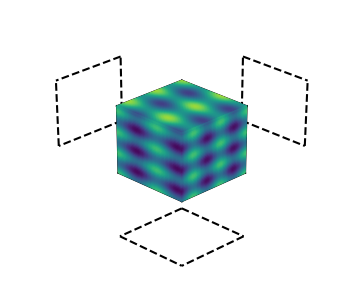
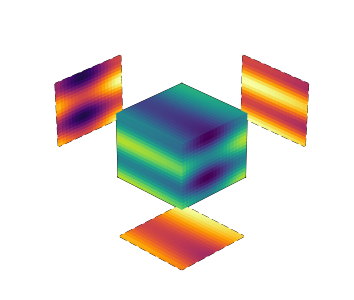
surface rendering for exploded panels

Changed region(s): [[0.1554, 0.18, 0.8701, 0.9]]

diff --git a/box.py b/box.py
@@ -114,6 +114,7 @@ class Box:
 
 
     def _check_for_point(self, arr):
+        self.make_corners()
         farr = []
         for pp in self.corners:
             #print("drawing", pp, pp[2])
@@ -131,7 +132,7 @@ class Box:
 
 
     # draw also backside and bottom panels using exploded view
-    def draw_hidden_panels(self, 
+    def draw_exploded_panels_outline(self, 
             side, 
             off = dx,
             fmt={'color':'k','linestyle':'dashed',},
@@ -206,9 +207,57 @@ class Box:
         self.draw_surface(X,Y,Z,data_slice)
 
 
+    def draw_exploded_bottom(self, off=dx):
+        farr = self._check_for_point([None, None, self.z0])
+        cors = self.filter_points( farr )
+        data_slice = self.data[:,:,0] 
 
-    def draw_surface(self, X, Y, Z, data):
-        cmap = plt.cm.viridis
+        ny, nx = np.shape(data_slice)
+        X, Y = np.meshgrid( 
+                np.linspace(self.x0, self.x0 + self.dx, nx), 
+                np.linspace(self.y0, self.y0 + self.dy, ny))
+        z1 = self.z0 - off
+        Z = z1*np.ones(X.shape)
+
+        self.draw_surface(X,Y,Z,data_slice, cmap=plt.cm.inferno)
+
+
+    def draw_exploded_left(self, off=dx):
+        farr = self._check_for_point([None, self.y0, None])
+        cors = self.filter_points( farr )
+        data_slice = self.data[:,0,:]
+
+        ny, nx = np.shape(data_slice)
+        X, Z = np.meshgrid( 
+                np.linspace(self.x0, self.x0 + self.dx, nx), 
+                np.linspace(self.z0, self.z0 + self.dz, ny))
+        y1 = self.y0 - off
+        Y = y1*np.ones(X.shape)
+
+        self.draw_surface(X,Y,Z,data_slice, cmap=plt.cm.inferno)
+
+
+    def draw_exploded_right(self, off=dx):
+        farr = self._check_for_point([self.x0, None, None])
+        cors = self.filter_points( farr )
+        data_slice = self.data[0,:,:] 
+
+        ny, nx = np.shape(data_slice)
+        Y, Z = np.meshgrid( 
+                np.linspace(self.y0, self.y0 + self.dy, nx), 
+                np.linspace(self.z0, self.z0 + self.dz, ny))
+        x1 = self.x0 - off
+        X = x1*np.ones(Z.shape)
+
+        self.draw_surface(X,Y,Z,data_slice, cmap=plt.cm.inferno)
+
+
+
+    def draw_surface(self, 
+            X, Y, Z, 
+            data, 
+            cmap = plt.cm.viridis,
+            ):
 
         norm = mpl.colors.Normalize(vmin=self.vmin, vmax=self.vmax)
         self.ax.plot_surface(
@@ -239,9 +288,9 @@ def f(x, y, z):
     #u = np.cos(x)*np.sin(y)
     #v = np.sin(x)*np.cos(y)
     #w = np.cos(x)*np.cos(y)
-    kx = 10.0
-    ky = 15.0
-    kz = 20.0
+    kx = 1.0
+    ky = 5.0
+    kz = 10.0
     return np.cos(kx*x + 0.1) + np.cos(ky*y + 0.2) + np.cos(kz*z + 0.3)
 
 #def f(x, y, z):
@@ -275,7 +324,7 @@ if __name__ == "__main__":
     axs.append( fig.add_subplot(111, projection='3d') )
     
     #create data
-    Nx = 50
+    Nx = 20
     x = np.linspace(0.0, 1.0, Nx)
     y = np.linspace(0.0, 1.0, Nx)
     z = np.linspace(0.0, 1.0, Nx)
@@ -285,19 +334,23 @@ if __name__ == "__main__":
     box = Box(axs[0])
     box.set_data(data)
 
-    box.draw_outline()
     box.draw_top()
     box.draw_left()
     box.draw_right()
+    box.draw_outline()
 
 
-    box.draw_hidden_panels("bottom")
-    box.draw_hidden_panels("left")
-    box.draw_hidden_panels("right")
+    box.draw_exploded_panels_outline("bottom")
+    box.draw_exploded_panels_outline("left")
+    box.draw_exploded_panels_outline("right")
     
+    box.draw_exploded_bottom()
+    box.draw_exploded_left()
+    box.draw_exploded_right()
+
 
     axs[0].set_axis_off()
-    axs[0].view_init(30.0, 45.0)
+    axs[0].view_init(35.0, 45.0)
     
 
 
